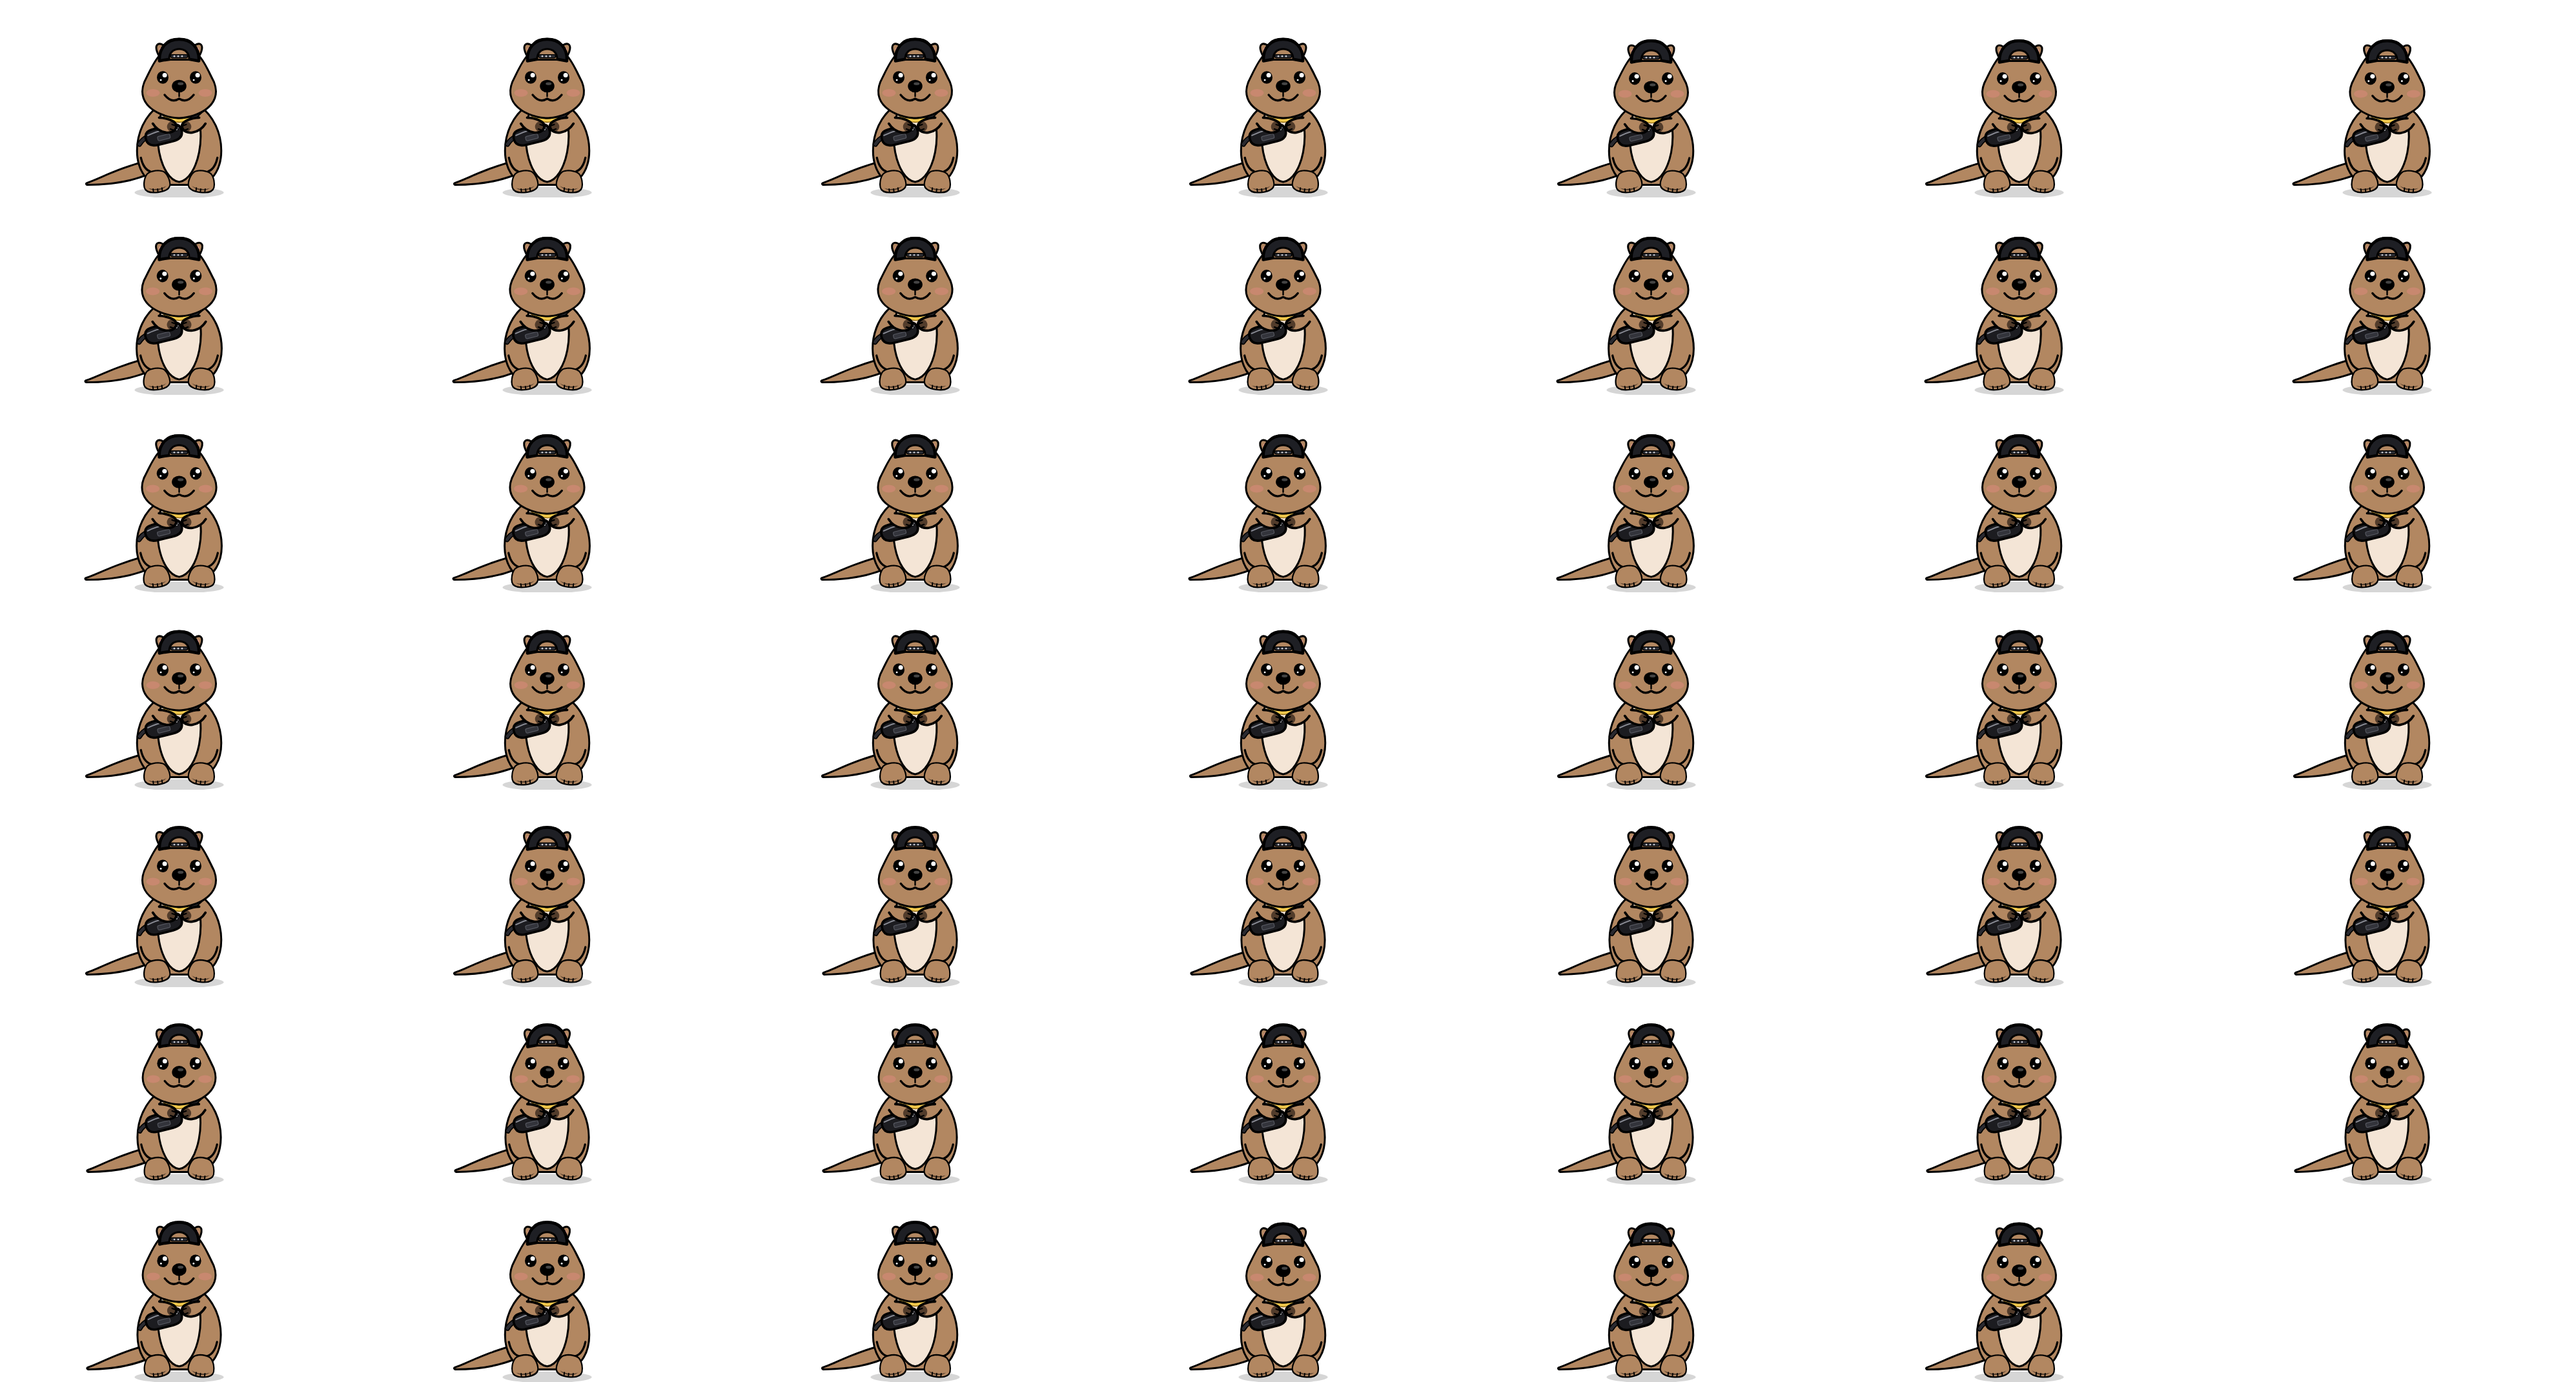
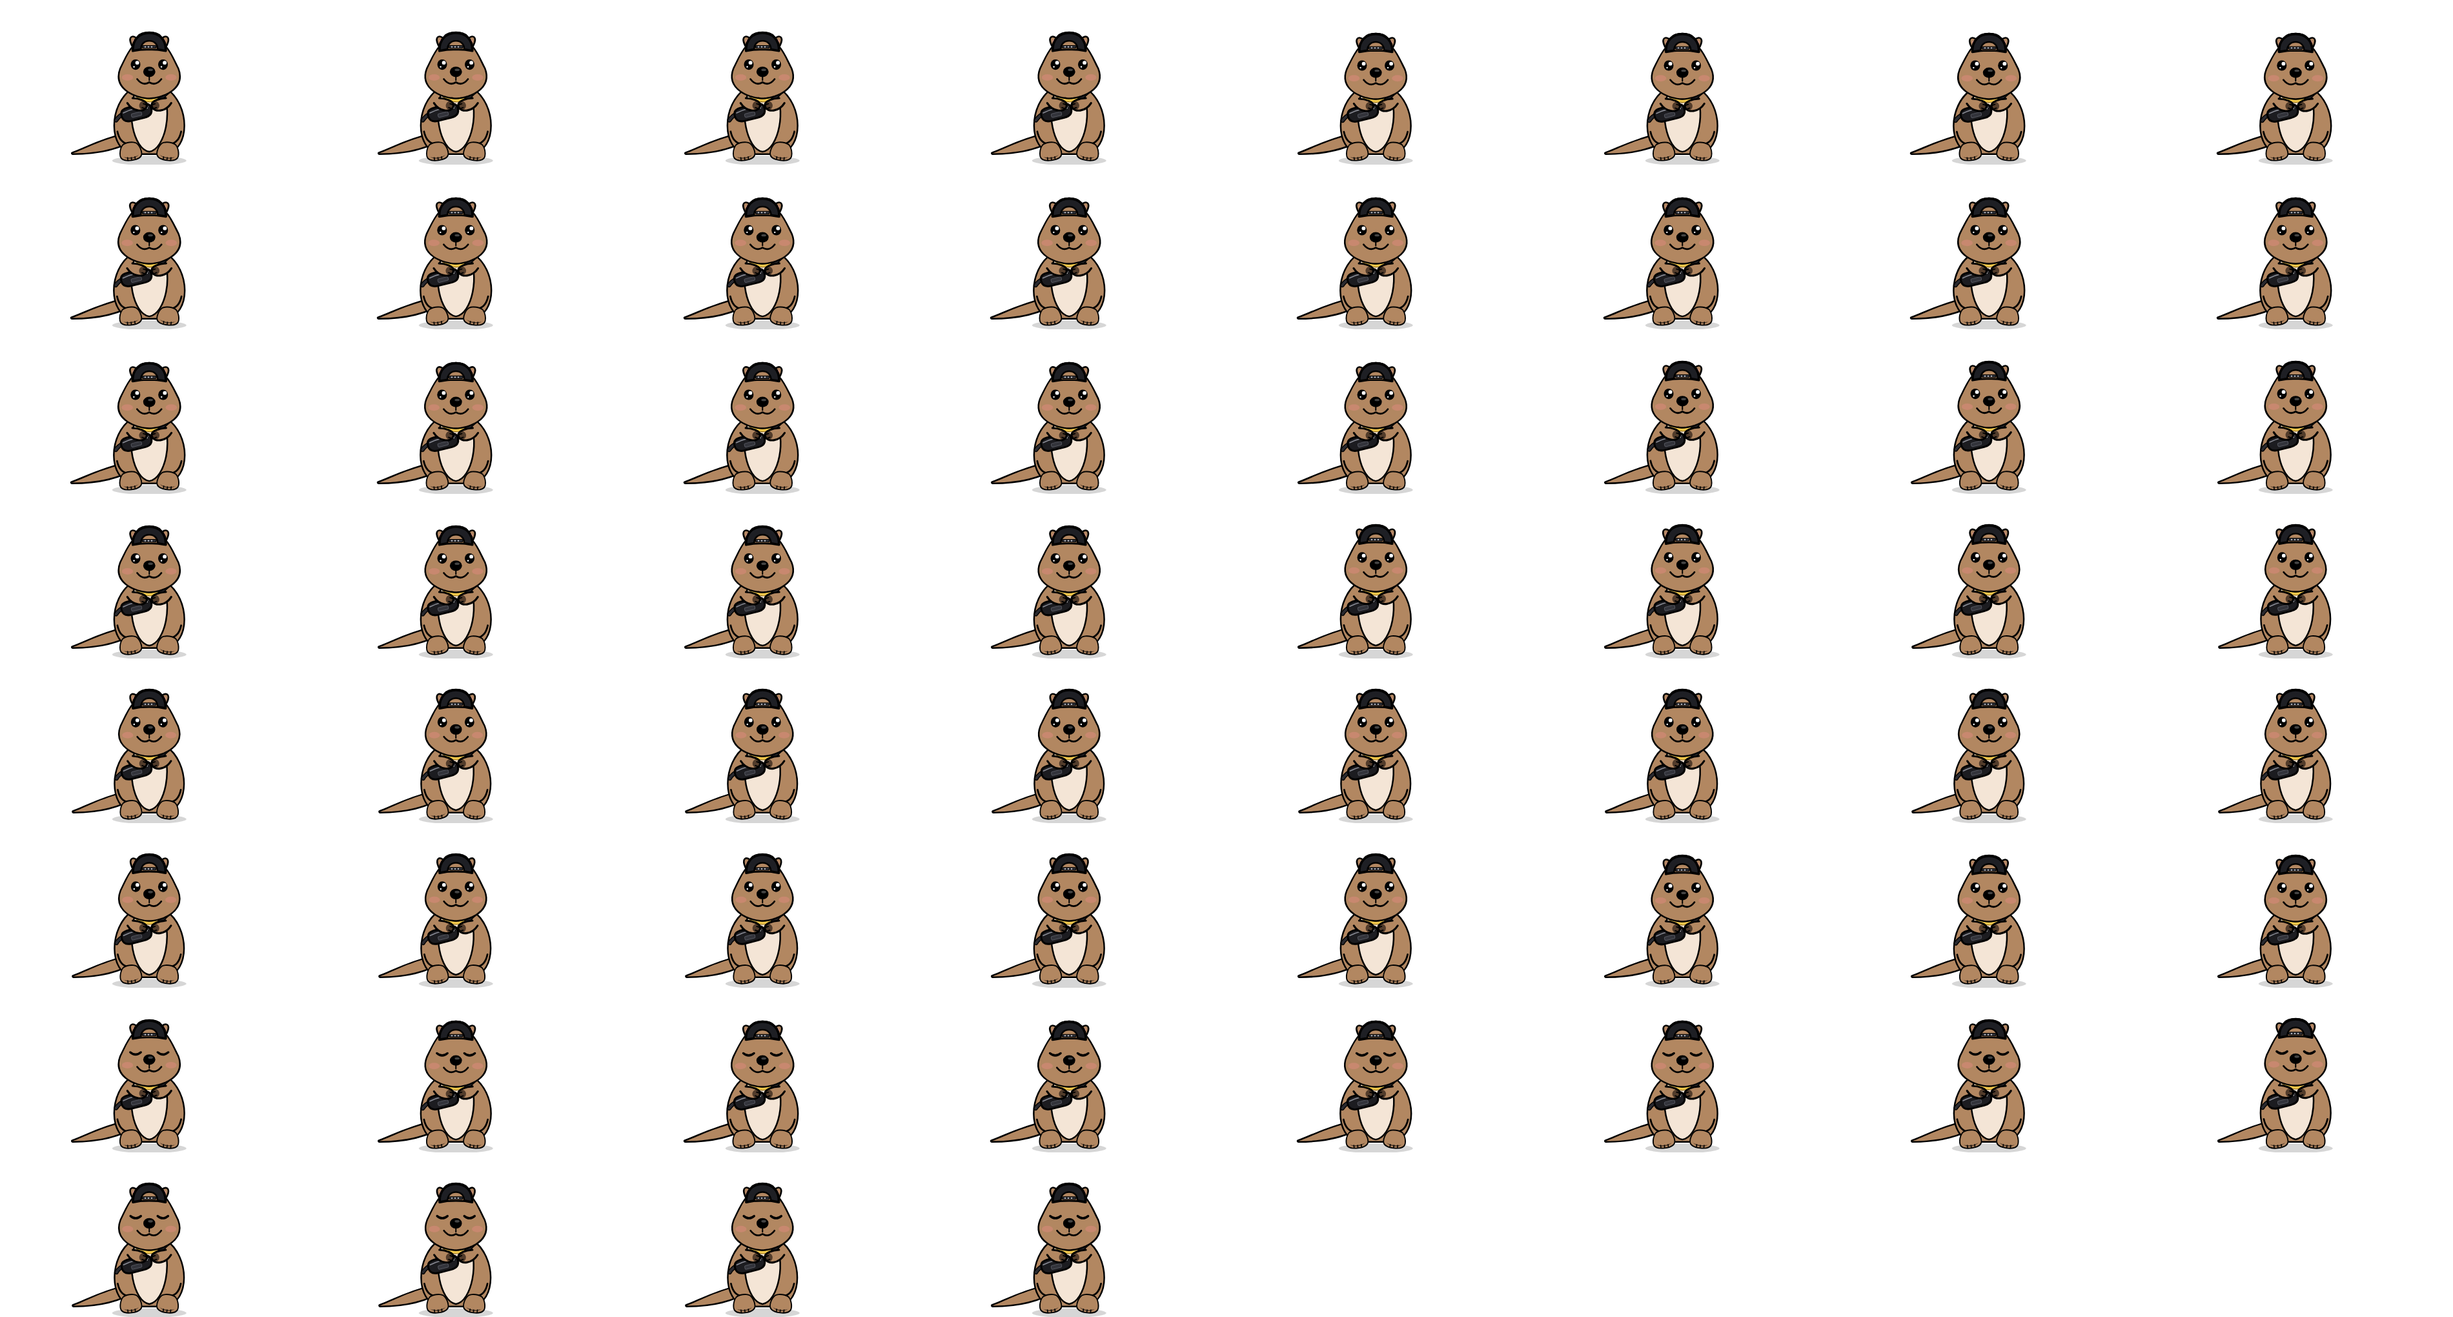
Fix Shimon flickering: blinks change only his eyes, sheets stay decoded
The blink used a separate pose drawn with different arms, breath and smoke,
so his whole body jumped for a frame every few seconds. Blink frames are now
baked into the idle sheet as exact eyes-shut copies of the idle frames.
Sheets are decoded up front and held in memory (current + next look only),
so switching sheets doesn't show a blank frame; smaller cells (1.25x, 8 cols)
keep the textures lighter on the bar's Android board.

diff --git a/src/utils/shimonActor.js b/src/utils/shimonActor.js
@@ -21,15 +21,28 @@ export function loadShimon() {
   return manifestPromise;
 }
 
-// one look's sheets, decoded and ready (so a swap never shows a blank frame)
+// one look's sheets, decoded and kept in memory (so switching sheets never shows a blank frame).
+// Only the last two looks asked for are kept (the one he wears and the next one): every look is
+// ~4 big images, too much for the bar's Android board to hold all at once.
+const KEEP = 2;
+const held = new Map();                 // look id -> the decoded Image objects (holding them keeps them decoded)
 export function loadLook(man, id) {
   if (!lookPromises[id]) {
     const sheets = Object.values(man.looks[id]?.sheets || {});
-    lookPromises[id] = Promise.all(sheets.map(s => new Promise(res => {
-      const img = new Image();
-      img.onload = img.onerror = () => res();
-      img.src = BASE + s.file;
-    })));
+    const imgs = sheets.map(s => { const img = new Image(); img.src = BASE + s.file; return img; });
+    // ready when decoded; but never wait forever (decode() can stall in a hidden tab) - loaded is good enough
+    const ready = img => Promise.race([
+      (img.decode ? img.decode() : Promise.reject()).catch(() => new Promise(r => { if (img.complete) r(); else img.onload = img.onerror = r; })),
+      new Promise(r => setTimeout(r, 6000)),
+    ]);
+    lookPromises[id] = Promise.all(imgs.map(ready));
+    held.set(id, imgs);
+  } else {
+    const imgs = held.get(id); held.delete(id); held.set(id, imgs);   // most recently used goes last
+  }
+  while (held.size > KEEP) {
+    const oldest = held.keys().next().value;
+    held.delete(oldest); delete lookPromises[oldest];
   }
   return lookPromises[id];
 }
@@ -125,9 +138,14 @@ export class ShimonActor {
       frame = Math.max(0, man.poses.indexOf(name));
     } else if (this.mode === 'idle') {
       if (now > this.nextBlink) { this.blinkUntil = now + 125; this.nextBlink = now + 2500 + Math.random() * 4000; }
-      if (now < this.blinkUntil) { sheet = 'poses'; frame = man.poses.indexOf('blink'); }
-      else if (this.restPose) { sheet = 'poses'; frame = Math.max(0, man.poses.indexOf(this.restPose)); }
-      else { sheet = 'idle'; frame = Math.floor((now / 1000) * man.fps) % man.looks[this.look].sheets.idle.frames; }
+      const iv = man.idle || { frames: 48 };
+      const f = Math.floor((now / 1000) * man.fps) % iv.frames;
+      if (this.restPose) { sheet = 'poses'; frame = Math.max(0, man.poses.indexOf(this.restPose)); }
+      else if (now < this.blinkUntil && iv.blinkStart != null) {
+        // the eyes-shut copy of (nearly) this very idle frame, from the same sheet: only the eyes change
+        sheet = 'idle'; frame = iv.blinkStart + Math.floor(f / iv.blinkEvery);
+      } else if (now < this.blinkUntil) { sheet = 'poses'; frame = man.poses.indexOf('blink'); }
+      else { sheet = 'idle'; frame = f; }
     }
 
     const info = man.looks[this.look].sheets[sheet], last = this.last;

diff --git a/tools/shimon-sprites/sprites.html b/tools/shimon-sprites/sprites.html
@@ -11,8 +11,8 @@
 // Every cell is the same box in poser units; his anchor (body centre on the sand) is (125, 197).
 const M = ShimonMotion, P = ShimonPoser;
 const BOX = { x: -60, y: 0, w: 380, h: 204 };       // poser units
-const SCALE = 1.5;                                    // px per unit in the sheet
-const COLS = 7;                                       // keeps every sheet under 4096 px (old Android GPU texture limit)
+const SCALE = 1.25;                                    // px per unit in the sheet
+const COLS = 8;                                       // keeps every sheet under 4096 px (old Android GPU texture limit)
 // gear.js only draws the bucket hat in profile (the hop is drawn in profile), so the other hats get a profile here
 const GG = ShimonGear.G, sideHatOf = { bucket: ShimonGear.side.hat };
 {
@@ -86,15 +86,20 @@ function hopFrames(L) {
 }
 
 // ---- idle: front, slow breath (a smoke curling if he has one), 2 s loop at 24 fps
+const IDLE = 48, BLINK_EVERY = 4;
 function idleFrames(L) {
   const out = [];
-  for (let i = 0; i < 48; i++) {
+  const blinks = [];
+  for (let i = 0; i < IDLE; i++) {
     const u = i / 48, b = Math.sin(u * Math.PI * 2);
-    out.push(shadow() + P.shimon({ view: 0, cheeks: 0.15, ...L.wear, eyes: L.eyes, mouth: L.mouth, prop: L.prop,
+    const p = { view: 0, cheeks: 0.15, ...L.wear, eyes: L.eyes, mouth: L.mouth, prop: L.prop,
       smoke: L.prop === 'cig' ? 0.55 + 0.3 * Math.sin(u * Math.PI * 2 + 1) : 0, squash: 0.012 * b,
-      earRot: 3 * Math.sin(u * Math.PI * 4) * (u > 0.6 ? 1 : 0.2), armL: -6, armR: 6, ...(L.idle || {}) }));
+      earRot: 3 * Math.sin(u * Math.PI * 4) * (u > 0.6 ? 1 : 0.2), armL: -6, armR: 6, ...(L.idle || {}) };
+    out.push(shadow() + P.shimon(p));
+    // the same drawing with his eyes shut, so a blink changes only his eyes (not his arms, breath or smoke)
+    if (i % BLINK_EVERY === 0) blinks.push(shadow() + P.shimon({ ...p, eyes: 'closed' }));
   }
-  return out;
+  return out.concat(blinks);
 }
 
 // ---- talk: mouths for fake lip-sync (the smoke comes out; his resting eyes stay on)
@@ -165,6 +170,7 @@ window.MANIFEST = {
   hop: { xs: hopInfo.xs.map(x => +(x * SCALE).toFixed(2)), distance: +(hopInfo.hopDistance * SCALE).toFixed(2) },
   talk: TALK.map(t => t[0]),
   poses: Object.keys(POSES),
+  idle: { frames: IDLE, blinkStart: IDLE, blinkEvery: BLINK_EVERY },   // blink frames sit after the idle loop
   defaultLook: 'bogan',
   looks,
 };
